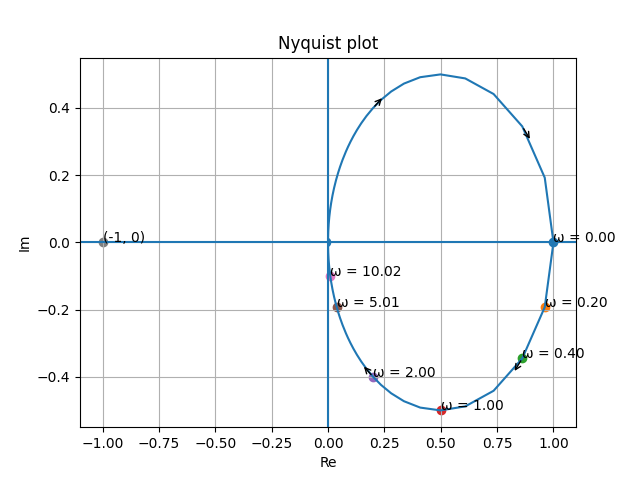
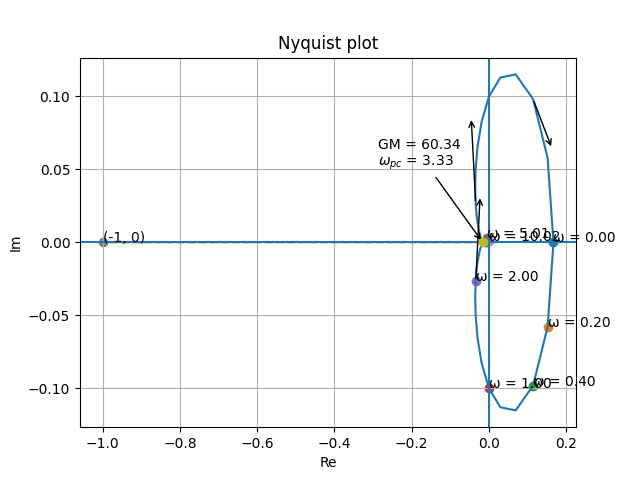
Started the process of exporting and plotting data regarding relative stability by first starting off with gain margin. Whilst the nyquist looks ugly for right now, once the phase margin is done, that is when the plot will get reformed.

diff --git a/python/plotting/plot_nyquist_analysis.py b/python/plotting/plot_nyquist_analysis.py
@@ -20,7 +20,33 @@ def read_nyquist_analysis(filename):
 
   return s_real_values, s_imaginary_values, mapped_real_values, mapped_imaginary_values
 
-def plot_nyquist(s_real_values, s_imaginary_values, mapped_real_values, mapped_imaginary_values):
+# Read in myquist metrics
+def read_nyquist_metrics(filename):
+  with open(filename, "r") as file:
+    reader = csv.DictReader(file)
+    row = next(reader)
+
+    phase_crossover_frequency = float(
+      row["phase_crossover_frequency"]
+    )
+    phase_crossover_real = float(
+      row["phase_crossover_real"]
+    )
+    phase_crossover_imaginary = float(
+      row["phase_crossover_imaginary"]
+    )
+    gain_margin = float(
+      row["gain_margin"]
+    )
+
+  return (
+    phase_crossover_frequency,
+    phase_crossover_real,
+    phase_crossover_imaginary,
+    gain_margin
+  )
+
+def plot_nyquist(s_real_values, s_imaginary_values, mapped_real_values, mapped_imaginary_values, phase_crossover_frequency, phase_crossover_real, phase_crossover_imaginary, gain_margin):
   plt.figure()
 
   plt.plot(mapped_real_values, mapped_imaginary_values)
@@ -162,6 +188,30 @@ def plot_nyquist(s_real_values, s_imaginary_values, mapped_real_values, mapped_i
     (-1.0, 0.0)
   )
 
+  # Mark the phase-crossover point
+  plt.scatter(
+    phase_crossover_real,
+    phase_crossover_imaginary,
+    zorder=6
+  )
+
+  # Draw the gain-margin indicator
+  plt.plot(
+    [phase_crossover_real, -1.0],
+    [phase_crossover_imaginary, 0.0],
+    linestyle="--"
+  )
+
+  # Annotate the actual numerical gain margin
+  plt.annotate(
+    f"GM = {gain_margin:.2f}\n"
+    f"$\\omega_{{pc}}$ = {phase_crossover_frequency:.2f}",
+    (phase_crossover_real, phase_crossover_imaginary),
+    xytext=(-75, 55),
+    textcoords="offset points",
+    arrowprops=dict(arrowstyle="->")
+  )
+
   # Plot formatting
   plt.xlabel("Re")
   plt.ylabel("Im")
@@ -178,7 +228,17 @@ def plot_nyquist(s_real_values, s_imaginary_values, mapped_real_values, mapped_i
 
 def main():
   s_real_values, s_imaginary_values, mapped_real_values, mapped_imaginary_values = read_nyquist_analysis("output/nyquist_data.csv")
-  plot_nyquist(s_real_values, s_imaginary_values, mapped_real_values, mapped_imaginary_values)
+
+  phase_crossover_frequency, phase_crossover_real, phase_crossover_imaginary, gain_margin = read_nyquist_metrics(
+  "output/nyquist_metrics.csv"
+  )
+
+  # Test if the data was successfully exported
+  phase_crossover_frequency, phase_crossover_real, phase_crossover_imaginary, gain_margin = read_nyquist_metrics(
+  "output/nyquist_metrics.csv"
+  )
+
+  plot_nyquist(s_real_values, s_imaginary_values, mapped_real_values, mapped_imaginary_values, phase_crossover_frequency, phase_crossover_real, phase_crossover_imaginary, gain_margin)
 
 if __name__ == "__main__":
   main()

diff --git a/cpp/src/main.cc b/cpp/src/main.cc
@@ -631,7 +631,7 @@ void ExportFrequencyResponseData() {
 
 void ExportNyquistData() {
   // Create G(s) = 1 / (s + 1)
-  TransferFunction transfer_function({1}, {1, 1});
+  TransferFunction transfer_function({1}, {1, 6, 11, 6});
 
   // Create the Nyquist analysis
   NyquistAnalysis nyquist_analysis(transfer_function);
@@ -646,6 +646,14 @@ void ExportNyquistData() {
 
   const std::vector<std::complex<double>>& mapped_path =
       nyquist_analysis.GetMappedPath();
+
+  // Calculate the phase margins
+  double omega_pc = nyquist_analysis.GetPhaseCrossoverFrequency(100.0, 500);
+  double gain_margin = nyquist_analysis.GetGainMargin(100.0, 500);
+
+  // Evaluate the mapped point with omega_pc
+  std::complex<double> s_pc(0.0, omega_pc);
+  std::complex<double> response_pc = transfer_function.Evaluate(s_pc);
 
   // Open the CSV file
   std::ofstream output_file("../output/nyquist_data.csv");
@@ -669,6 +677,28 @@ void ExportNyquistData() {
   }
 
   output_file.close();
+
+  // Metrics for phase margins
+  std::ofstream metrics_file("../output/nyquist_metrics.csv");
+
+  if (!metrics_file.is_open())
+    throw std::runtime_error("Could not open Nyquist metrics output file.");
+
+  metrics_file
+    << "phase_crossover_frequency,"
+    << "phase_crossover_real,"
+    << "phase_crossover_imaginary,"
+    << "gain_margin"
+    << std::endl;
+
+  metrics_file
+    << omega_pc << ","
+    << response_pc.real() << ","
+    << response_pc.imag() << ","
+    << gain_margin
+    << std::endl;
+
+  metrics_file.close();
 
   std::cout << "Nyquist data exported successfully."
             << std::endl;
@@ -1044,6 +1074,7 @@ void TestPhaseMargin() {
 }
 
 int main() {
-  TestPhaseMargin();
+  ExportNyquistData();
+  
   return 0;
 }
